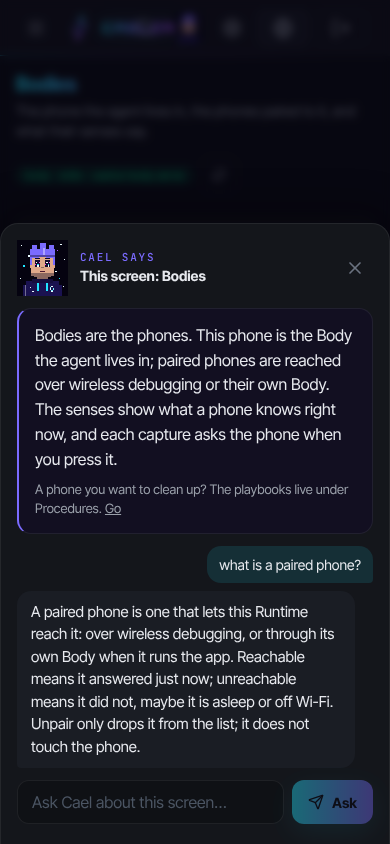
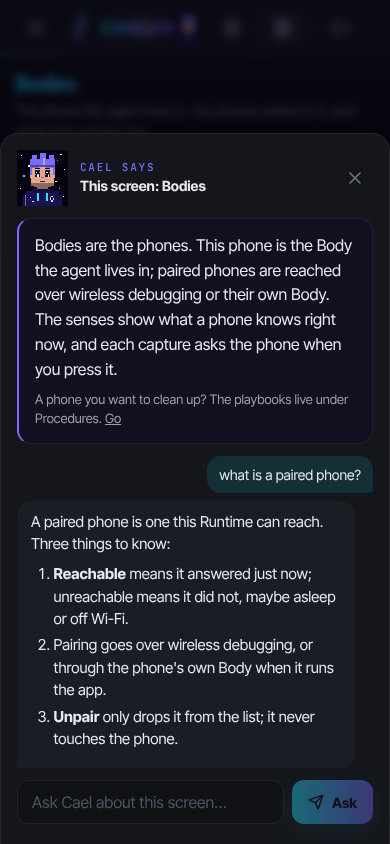
Cael's answers as markdown: the guide panel renders a whole reply the way the chat does
Cael answers with lists, bold and the odd code span, and the panel showed
the raw marks. Once the reply is whole it now renders through react-markdown
with GFM under the chat's .chat-markdown styles (runtime/overlay/web/src/
guide/CaelButton.tsx); while it streams, the words show as they come, the
same rule as the chat. Links open a new tab so the page under the panel
stays; in-page anchors keep theirs. The bubble drops pre-wrap once it is
markdown, since the source's line breaks are its paragraphs then
(caelza-brand.css). tests/test_cael_button.py pins the gate and the styles;
the Cael screen is retaken with a numbered answer.

Claude-Session: https://claude.ai/code/session_01NGYKGarQSa9JpcHuCWGJKL

diff --git a/runtime/overlay/web/src/guide/CaelButton.tsx b/runtime/overlay/web/src/guide/CaelButton.tsx
@@ -9,6 +9,8 @@ import { useEffect, useRef, useState } from "react";
 import { createPortal } from "react-dom";
 import { Link, useLocation } from "react-router-dom";
 import { Send, X } from "lucide-react";
+import ReactMarkdown, { type Components } from "react-markdown";
+import remarkGfm from "remark-gfm";
 
 import { getQuickstartState } from "@/lib/api";
 import { t } from "@/lib/i18n";
@@ -58,6 +60,12 @@ const TITLE_KEYS: Record<ReturnType<typeof screenOf>, string> = {
 
 /** How long a question may wait for the whole answer. */
 const ANSWER_TIMEOUT_MS = 90_000;
+
+/** Links in his answer open a new tab, so the page under the panel stays; in-page anchors keep theirs (the chat's rule). */
+const markdownComponents: Components = {
+  a: ({ node: _node, href, ...props }) =>
+    href?.startsWith("#") ? <a {...props} href={href} /> : <a {...props} href={href} target="_blank" rel="noopener noreferrer" />,
+};
 
 export function CaelButton() {
   const [open, setOpen] = useState(false);
@@ -230,8 +238,17 @@ function GuidePanel({ onClose }: { onClose: () => void }) {
         {asked ? (
           <div className="cz-guide-thread" aria-live="polite">
             <div className="cz-guide-q">{asked}</div>
-            <div className="cz-guide-a">
-              {reply?.text ? reply.text : busy ? t("guide.thinking") : null}
+            <div className={`cz-guide-a${reply?.done && reply.text ? " chat-markdown" : ""}`}>
+              {reply?.text ? (
+                reply.done ? (
+                  /* Whole: his answer as markdown, in the chat's styles. While it streams, the words as they come. */
+                  <ReactMarkdown remarkPlugins={[remarkGfm]} components={markdownComponents}>{reply.text}</ReactMarkdown>
+                ) : (
+                  reply.text
+                )
+              ) : busy ? (
+                t("guide.thinking")
+              ) : null}
               {reply?.error ? <div className="cz-guide-err">{reply.error}</div> : null}
             </div>
           </div>

diff --git a/runtime/overlay/web/src/caelza-brand.css b/runtime/overlay/web/src/caelza-brand.css
@@ -275,6 +275,11 @@ main .surface-panel {
   white-space: pre-wrap;
   word-break: break-word;
 }
+/* Whole, the answer is markdown (the chat's .chat-markdown rules): the
+   source's line breaks are its paragraphs now, not blank lines. */
+.cz-guide-a.chat-markdown {
+  white-space: normal;
+}
 .cz-guide-err {
   margin-top: 6px;
   font-size: 13px;

diff --git a/tests/test_cael_button.py b/tests/test_cael_button.py
@@ -66,6 +66,15 @@ def test_the_panel_asks_cael_over_the_chat_socket_in_one_guide_conversation():
     assert 'case "chunk":' in LOGIC and 'case "done":' in LOGIC and 'case "error":' in LOGIC and 'case "chunk_reset":' in LOGIC
 
 
+def test_the_answer_is_markdown_once_it_is_whole():
+    assert 'import ReactMarkdown, { type Components } from "react-markdown";' in BUTTON and 'import remarkGfm from "remark-gfm";' in BUTTON
+    assert 'className={`cz-guide-a${reply?.done && reply.text ? " chat-markdown" : ""}`}' in BUTTON, "the chat's markdown styles, once whole"
+    assert "<ReactMarkdown remarkPlugins={[remarkGfm]} components={markdownComponents}>{reply.text}</ReactMarkdown>" in BUTTON
+    assert 'target="_blank" rel="noopener noreferrer"' in BUTTON, "a link leaves the panel in a new tab; the page under it stays"
+    rule = BRAND_CSS.split(".cz-guide-a.chat-markdown {")[1].split("}")[0]
+    assert "white-space: normal;" in rule, "pre-wrap is for the words as they stream; markdown makes its own paragraphs"
+
+
 def test_patch_touches_only_the_files_it_claims():
     touched = sorted({line.split()[1][2:] for line in PATCH.splitlines() if line.startswith("+++ b/")})
     assert touched == ["web/package.json", "web/src/components/layout/Header.tsx", "web/src/lib/i18n.ts"]

diff --git a/docs/design/caelza-vision.md b/docs/design/caelza-vision.md
@@ -412,7 +412,7 @@ Grouped, unranked inside each group. ★ = cheap given what we already have.
 | **M4 UI phases 1–2** | **Phase 1 + PWA shipped:** the brand faces self-hosted (Inter Tight default, Orbitron wordmark), the lockup in the drawer and on the pairing screen, the parent attribution in the footers, labelled accents; `manifest.webmanifest` + icons + `sw.js` (offline app shell, API never cached) with the gateway's `Service-Worker-Allowed` for the SPA root. **Phase 2a shipped:** the Memory page (`/memory`, in the sidebar's Home group): brains, beliefs, sleep and attention from `brain_stats` / `brain_status`, recall by query with forget, the review queue with accept / reject; the gateway's `/api/mind/*` proxies the brain service with the host-side tokens. **Phase 2b shipped:** the Bodies page (`/bodies`, beside Memory): this phone and the paired phones from `device_list`, battery / whereabouts / notifications from the sensors tools, screen and camera captures as images, the package list, pair and unpair over ADB wireless debugging; the gateway's `/api/bodies/*` keeps one connection to the Body's MCP server (`caelza-body serve`) and makes the tool calls. **Phase 3a shipped:** Home (`/`) as status before chat: Runtime, Mind and Body tiles, "waiting on you" (procedure runs at a gate with approve / deny, memory changes awaiting review), "since you were away" (the Mind's attention, last sleep, open commitments and questions through `/api/mind/digest`; runs and sessions of the last day); the upstream dashboard at `/dashboard` with the old `/?tab=` links forwarded. Procedures (`/procedures`) fronting the SOP engine: waiting, running with stop, the library, finished this week. **Phase 3b shipped:** the phone-first pass, measured at 390 × 844 over every route with `runtime/tools/phone-shots` (sideways scroll, elements past the edge, controls under 32 px): phone rules in the brand stylesheet, patch 0006 for what CSS cannot reach, reference screens in `docs/design/screens/390/`. **Phase 4a shipped:** the simplified setup (`/setup`, `runtime/overlay/web/src/pages/setup/` + patch 0009): Cael's screens in the brand's own colours, one decision each, outside the dashboard chrome. The two doors first; behind "bring your own key" a scroll wheel of the providers most people bring (`bundle/models.json`, the curated catalog `scripts/model_catalog.py check --online` verifies against models.dev; "more" adds every key provider the Runtime lists), a wheel of that provider's models with Cael's picks pinned on top (best, fast and cheap, strongest, free) above the Runtime's live catalog, one box for the key with where to get one, then "Try it"; behind "free and local" the ladder's pick for this device. Risk, runtime, memory and the agent's name take defaults and the whole thing goes through upstream's `/api/quickstart/apply`, so the result is what the full wizard writes; a fresh install lands on `/setup`, the wizard stays at `/quickstart` as "Advanced setup", and "Set up" heads the sidebar's Configure group. The Android app's first run spins the same catalog with two native wheels (`firstrun/ModelCatalog.kt`). **Phase 4b shipped:** the brand pass over every dashboard page (`caelza-brand.css` + patch 0010): the mark and the wordmark in the top bar on every width under a hairline of the mark gradient, page titles in the mark gradient, the primary action filled cyan → violet (the pairing screen's too), Space with the nebula glows behind every page (theme variables, so another theme gets a plain base), cards with a hairline of light on their top edge; the reference screens in `docs/design/screens/390/` retaken. **M4 is complete.** | M2, M3 |
 | **M5 SOP playbooks** | **Shipped:** the four playbooks as SOPs in `body/sops/` (`phone-debloat`, `phone-malware-removal`, `phone-new-setup`, `phone-diagnostics`): manual trigger, owned by `agents.main`, `auto` mode with one `requires_confirmation` gate per procedure right before the step that changes the phone (diagnostics has none); the deterministic half as four read-only Body tools (`device_debloat_plan` over a curated list seeded from the REVVL 7 log, `device_suspects` with risk flags, `device_foreground`, `device_health` with the setup checklist); `caelza-body playbooks --install` and `install.sh` put them in `~/.caelza/shared/sops`, `[sop] sops_dir` in the phone config loads them, the Procedures library gives each a **Run** that asks which phone; validated by the Runtime's own `caelza sop validate`. Evals: `tests/test_playbook_evals.py` runs the classifier over the 297-package REVVL snapshot and the parsers over recorded output, and against a live emulator or phone with `CAELZA_EVAL_SERIAL`. **Open:** a recorded run of each playbook end to end on the REVVL (the first device run, M1), the eval crate (`caelza-eval`) replaying those runs. | M2 |
 | **M6 Fleet + Forge** | **Shipped (fleet):** the hub + bodies shape. Each phone serves its Body over Streamable HTTP behind a bearer token (`caelza-body serve --http`, loopback unless `--host` names the Tailscale address, `/health` open, `/mcp` locked, DNS-rebinding checks); the hub's Body joins phones as devices (`device_join` / `caelza-body fleet join`, the token in a 0600 file, never in the registry) and forwards every tool call naming one, sensors included, images included, with an audit line per destructive call; `device_list` shows kinds and groups, `device_pair` / `device_tag` set groups, the Procedures Run dialog fans a playbook out over a group with one gate per phone; `runtime/caelza.hub.example.toml` is the hub's Runtime config. Tested end to end against a real `--http` Body with the recorded phone (`tests/test_fleet.py`). **Shipped (Runtime guard):** `caelza_body/runtime_guard.py` (stdlib, immutable like the supervisor): `caelza-body runtime update` finds the release for this target, downloads and verifies the archive against its `.sha256`, unpacks into `~/.caelza-body/runtime/<version>` (refusing escaping members), probes the binary in the work dir on a copy of the config (`--version` must match, `gateway start` must serve `/health` on a port nothing else answers), snapshots `~/.caelza` (config, agents, shared), moves `current` and leaves `last-good` on the version that was running, asks the supervisor to restart; a binary that does not hold is never installed. The supervisor runs `caelza daemon` from `current` beside the agent, restarts on request (which also revives a halted Runtime), promotes the new version to `last-good` once it has held for ten minutes, rolls back to `last-good` on a crash loop, halts without a rollback when another Runtime already holds the gateway port, and halts when last-good loops. `runtime status / rollback / link` by hand; `tests/test_runtime_guard.py` drives it with a fake release and a fake gateway, and the real binary when `CAELZA_BIN` is set. **Shipped (Forge):** the git channel as `channels.git.forge` (a GitHub App on the repo; `runtime/caelza.forge.example.toml` with the events table and the gates), every release built with `channel-git`, `forge-propose` (frame, read `main`, draft; after the gate a `forge/<topic>` branch and a draft PR through `git_forge`) and `forge-release` (on `release.published`, or a tag by hand: the owner approves, `body__runtime_update` hands the tag to the guard), the Body's `runtime` tool group (`runtime_status`, `runtime_update`); validated by the Runtime's `sop validate` with the channel configured; `docs/forge.md`. **M6 is complete.** **Open:** the first live forge PR from a phone (the App installed on the repo, a `v*` release with the Android leg). | M2–M5 |
-| **M8 Looks and the Shop** | **Shipped (M8a, the looks):** every agent has a pixel character: one piece per layer (backdrop, body, outfit, hair, hat, face, accessory) in the owner's colours (skin, hair, outfit, accent, eyes), drawn as code on a 40 × 44 grid in `looks/parts.py` in a key palette, exported by `scripts/looks.py` to the dashboard's public files and composed, outlined and recoloured in the browser (`runtime/overlay/web/src/looks/Look.tsx`, the maths mirrored in `looks.logic.ts` and pinned to the Python by `tests/test_looks.py`). It blinks on its own and talks in the chat header while the agent answers. Cael's look is fixed (the constellation hoodie, galaxy eyes, violet hair on Space); every other agent is dealt one from its name until the owner dresses it at `/looks/<alias>` (a tab per layer, the pieces of the packs in the wardrobe, a colour row per slot, save). The look lives on the Runtime (`api_looks.rs`: `/api/looks/{alias}` under `agents/<alias>/look.json`), so the phone and the desktop show the same. **Shipped (M8b, the shop):** `/shop` lists the packs of `looks/catalog.json` with their sheets: Starter (always yours), Cosmic (free, one tap adds it to the wardrobe at `/api/looks/wardrobe`), Arcade (coming soon); a priced pack carries an `unlock` slot for signed codes once the gateway verifies them. Adding a pack is drawing its pieces in `parts.py`, listing them in the catalog and running `export`; `check` keeps the catalog, the drawings and the exports in step. **Shipped (M8c, Cael everywhere):** his look in the top bar of every page opens "explain this screen" (`runtime/overlay/web/src/guide/CaelButton.tsx` + patch 0012): one paragraph and one next step per screen in his words, with no model needed; below it a question, answered by the `cael` agent over the gateway's chat socket in one guide conversation the browser keeps (his look talks while he answers); without Cael set up, the panel still explains and points at the setup. **Shipped (M8d, the look in the conversation):** the agent's look stands beside each of its bubbles and on its chat tab, held still (the transcript does not fidget); the live turn's look talks while the answer streams in; Home has "Your agents" (each agent's look, the ones talked to last first with when and how much, a tap opens the chat, a link to dress them) and the look beside each conversation that moved; one composed frame per look and frame is shared by every copy on the page (patch 0013 for the chat and the tab bar, the overlay's Home for the rest). **Shipped (M8e, the Arcade pack and the unlock codes):** the first priced pack, drawn (a CRT backdrop with the invaders on it, a bomber jacket, a mohawk, a backwards cap, sprite eyes, shades, a coin beside the head), opens with a code the owner mints (`scripts/unlock_codes.py`: Ed25519 in plain Python, `<PACK>-<ID>-<signature>`, the signing key kept out of the repo) and the Runtime checks against the public key baked into the gateway (`api_looks.rs`, through rustls' ring provider, so no new crate; the catalog carries the same key) at `POST /api/looks/wardrobe/unlock`; the wardrobe remembers the unlock, so the pack goes back in with one tap after a remove; the Shop's slot takes the code and says what is wrong with one that is not. **Open:** a storefront link per pack (`buy` in the catalog) once there is one; a look for the Telegram profile picture. | M4 |
+| **M8 Looks and the Shop** | **Shipped (M8a, the looks):** every agent has a pixel character: one piece per layer (backdrop, body, outfit, hair, hat, face, accessory) in the owner's colours (skin, hair, outfit, accent, eyes), drawn as code on a 40 × 44 grid in `looks/parts.py` in a key palette, exported by `scripts/looks.py` to the dashboard's public files and composed, outlined and recoloured in the browser (`runtime/overlay/web/src/looks/Look.tsx`, the maths mirrored in `looks.logic.ts` and pinned to the Python by `tests/test_looks.py`). It blinks on its own and talks in the chat header while the agent answers. Cael's look is fixed (the constellation hoodie, galaxy eyes, violet hair on Space); every other agent is dealt one from its name until the owner dresses it at `/looks/<alias>` (a tab per layer, the pieces of the packs in the wardrobe, a colour row per slot, save). The look lives on the Runtime (`api_looks.rs`: `/api/looks/{alias}` under `agents/<alias>/look.json`), so the phone and the desktop show the same. **Shipped (M8b, the shop):** `/shop` lists the packs of `looks/catalog.json` with their sheets: Starter (always yours), Cosmic (free, one tap adds it to the wardrobe at `/api/looks/wardrobe`), Arcade (coming soon); a priced pack carries an `unlock` slot for signed codes once the gateway verifies them. Adding a pack is drawing its pieces in `parts.py`, listing them in the catalog and running `export`; `check` keeps the catalog, the drawings and the exports in step. **Shipped (M8c, Cael everywhere):** his look in the top bar of every page opens "explain this screen" (`runtime/overlay/web/src/guide/CaelButton.tsx` + patch 0012): one paragraph and one next step per screen in his words, with no model needed; below it a question, answered by the `cael` agent over the gateway's chat socket in one guide conversation the browser keeps (his look talks while he answers; whole, the answer renders as markdown in the chat's styles, M8f); without Cael set up, the panel still explains and points at the setup. **Shipped (M8d, the look in the conversation):** the agent's look stands beside each of its bubbles and on its chat tab, held still (the transcript does not fidget); the live turn's look talks while the answer streams in; Home has "Your agents" (each agent's look, the ones talked to last first with when and how much, a tap opens the chat, a link to dress them) and the look beside each conversation that moved; one composed frame per look and frame is shared by every copy on the page (patch 0013 for the chat and the tab bar, the overlay's Home for the rest). **Shipped (M8e, the Arcade pack and the unlock codes):** the first priced pack, drawn (a CRT backdrop with the invaders on it, a bomber jacket, a mohawk, a backwards cap, sprite eyes, shades, a coin beside the head), opens with a code the owner mints (`scripts/unlock_codes.py`: Ed25519 in plain Python, `<PACK>-<ID>-<signature>`, the signing key kept out of the repo) and the Runtime checks against the public key baked into the gateway (`api_looks.rs`, through rustls' ring provider, so no new crate; the catalog carries the same key) at `POST /api/looks/wardrobe/unlock`; the wardrobe remembers the unlock, so the pack goes back in with one tap after a remove; the Shop's slot takes the code and says what is wrong with one that is not. **Open:** a storefront link per pack (`buy` in the catalog) once there is one; a look for the Telegram profile picture. | M4 |
 | **M7 Caelza Android app** | **Shipped (M7a, the shell):** `android/`, a Gradle/Kotlin app (`tech.enlightenedrepublic.caelza`, minSdk 28, targetSdk 28 on purpose: W^X, see `docs/design/android-app.md` §2) that installs the Runtime from this repo's releases through the guard's pipeline in Kotlin (`ReleaseInstaller`: the `aarch64-linux-android` archive, its `.sha256`, unpack, probe on a copy of the config, install, `current` / `last-good` as the Body's guard keeps them), runs `caelza daemon` as a foreground service with the supervisor's ladder (`RuntimeService`: restart, roll back to last-good on a crash loop, halt when last-good loops or another Runtime holds the port), starts it after a reboot, shows the dashboard in a WebView the moment `/health` answers, and reads where Shizuku stands; JVM unit tests over a fake release; CI builds the APK (`.github/workflows/android.yml`). **Shipped (M7b, the Body):** the `device` group in Kotlin over Shizuku (`android/.../body/`), served to the Runtime as the Body MCP server on `127.0.0.1:42618/mcp` the way `caelza-body serve --http` serves it (the same token file, audit log and package snapshots under `files/.caelza-body`), the Runtime's config wired on first start (`body` http server, bundle, `[agents.main]`, the `phone` risk profile), the playbook parsers and tables ported with their recordings replayed in Gradle, the contract pinned from both sides against `caelza-body list-tools` (`scripts/android_body_fixtures.py`); Shizuku missing is a degraded Body (`needs Shizuku`), not a crash. **Shipped (M7c, the sensors):** the nine `sensors_*` tools through the Android APIs (`AndroidSensors`: `BatteryManager`, a `NotificationListenerService`, `ClipboardManager`, `LocationManager` + `WifiManager` + the keyless IP lookup, camera2 with a settling preview, `MediaRecorder`, `TextToSpeech`, the torch) answering in `termux-api`'s shapes so the tools, the playbooks and the Bodies page see no difference; a permission not granted is `needs the camera permission: Settings › …`, and the strip's third line asks for what is missing. **Shipped (M7d, the first run and the local model):** Cael leads the first run (`firstrun/`): the Runtime installed, a brain through the two doors of §3.4 (free and local: llama.cpp's own prebuilt Android build pinned by tag and sha256 plus the ladder's GGUF for this phone's RAM, verified and resumable, `llama-server` on `127.0.0.1:8080` run beside the Runtime by the service; bring your own key: Anthropic, OpenAI or OpenRouter under `<provider>.default`), Shizuku, the permissions with their reasons, the battery exemption, a word about hubs, start; both doors write the config through the Runtime's own `caelza config set` and create Cael as `agents.cael` with his `SOUL.md`. **Shipped (the launcher icon):** the brand mark as an adaptive icon, rendered by `brand/make_assets.py --android` from `tokens.json` (the mark inside the safe circle over the nebula backdrop; the silhouette as the monochrome layer for themed icons and the notification's status-bar icon) and kept in step by CI. **Shipped (the release's Android leg):** a `v*` tag builds the app as well and attaches `caelza-app-<version>.apk` with its `.sha256` to the release, versioned from the tag (`scripts/app_version.py`: `v0.1.0` → `0.1.0` / versionCode 1000, `BUILD_ID` in the bug report), signed with the release keystore when the repo's secrets hold one and `-debug-signed` otherwise; the logs screen (`logs/LogsActivity.kt`) shows every log the app writes with secrets blanked and shares a bug report. **Open:** the first real `llama-server` start on the REVVL (memory on a 3.5 GB phone); the accessibility service and MediaProjection for this phone's screen without Shizuku; the fleet tools in the app; the binder path instead of shell commands; the W^X decision measured on the REVVL. | M2, M1.5, M4 |
 
 ## 10. Decisions (taken 2026-10-18) and what is still open

diff --git a/docs/design/screens/README.md b/docs/design/screens/README.md
@@ -34,7 +34,7 @@ cyan → violet, Space with the nebula glows behind every page.
 | `looks-dress.png` | the customizer: the preview that blinks and talks, a tab per layer, the pieces, the colour rows |
 | `shop.png` | the Shop: the packs with their sheets, Starter always yours, Cosmic one tap away, Arcade for sale with its unlock-code slot (M8e) |
 | `agents.png` | the agents list with each agent's look in its row |
-| `cael-explain.png` | Cael's panel from the top bar on Bodies: what the screen is, the next step, a question answered in his words |
+| `cael-explain.png` | Cael's panel from the top bar on Bodies: what the screen is, the next step, a question answered in his words, as markdown once whole (M8f) |
 
 The two quickstart shots were taken over the vite dev server with the daemon's
 answers canned (Playwright routes for `/api/quickstart/*`, `/api/status`, the
